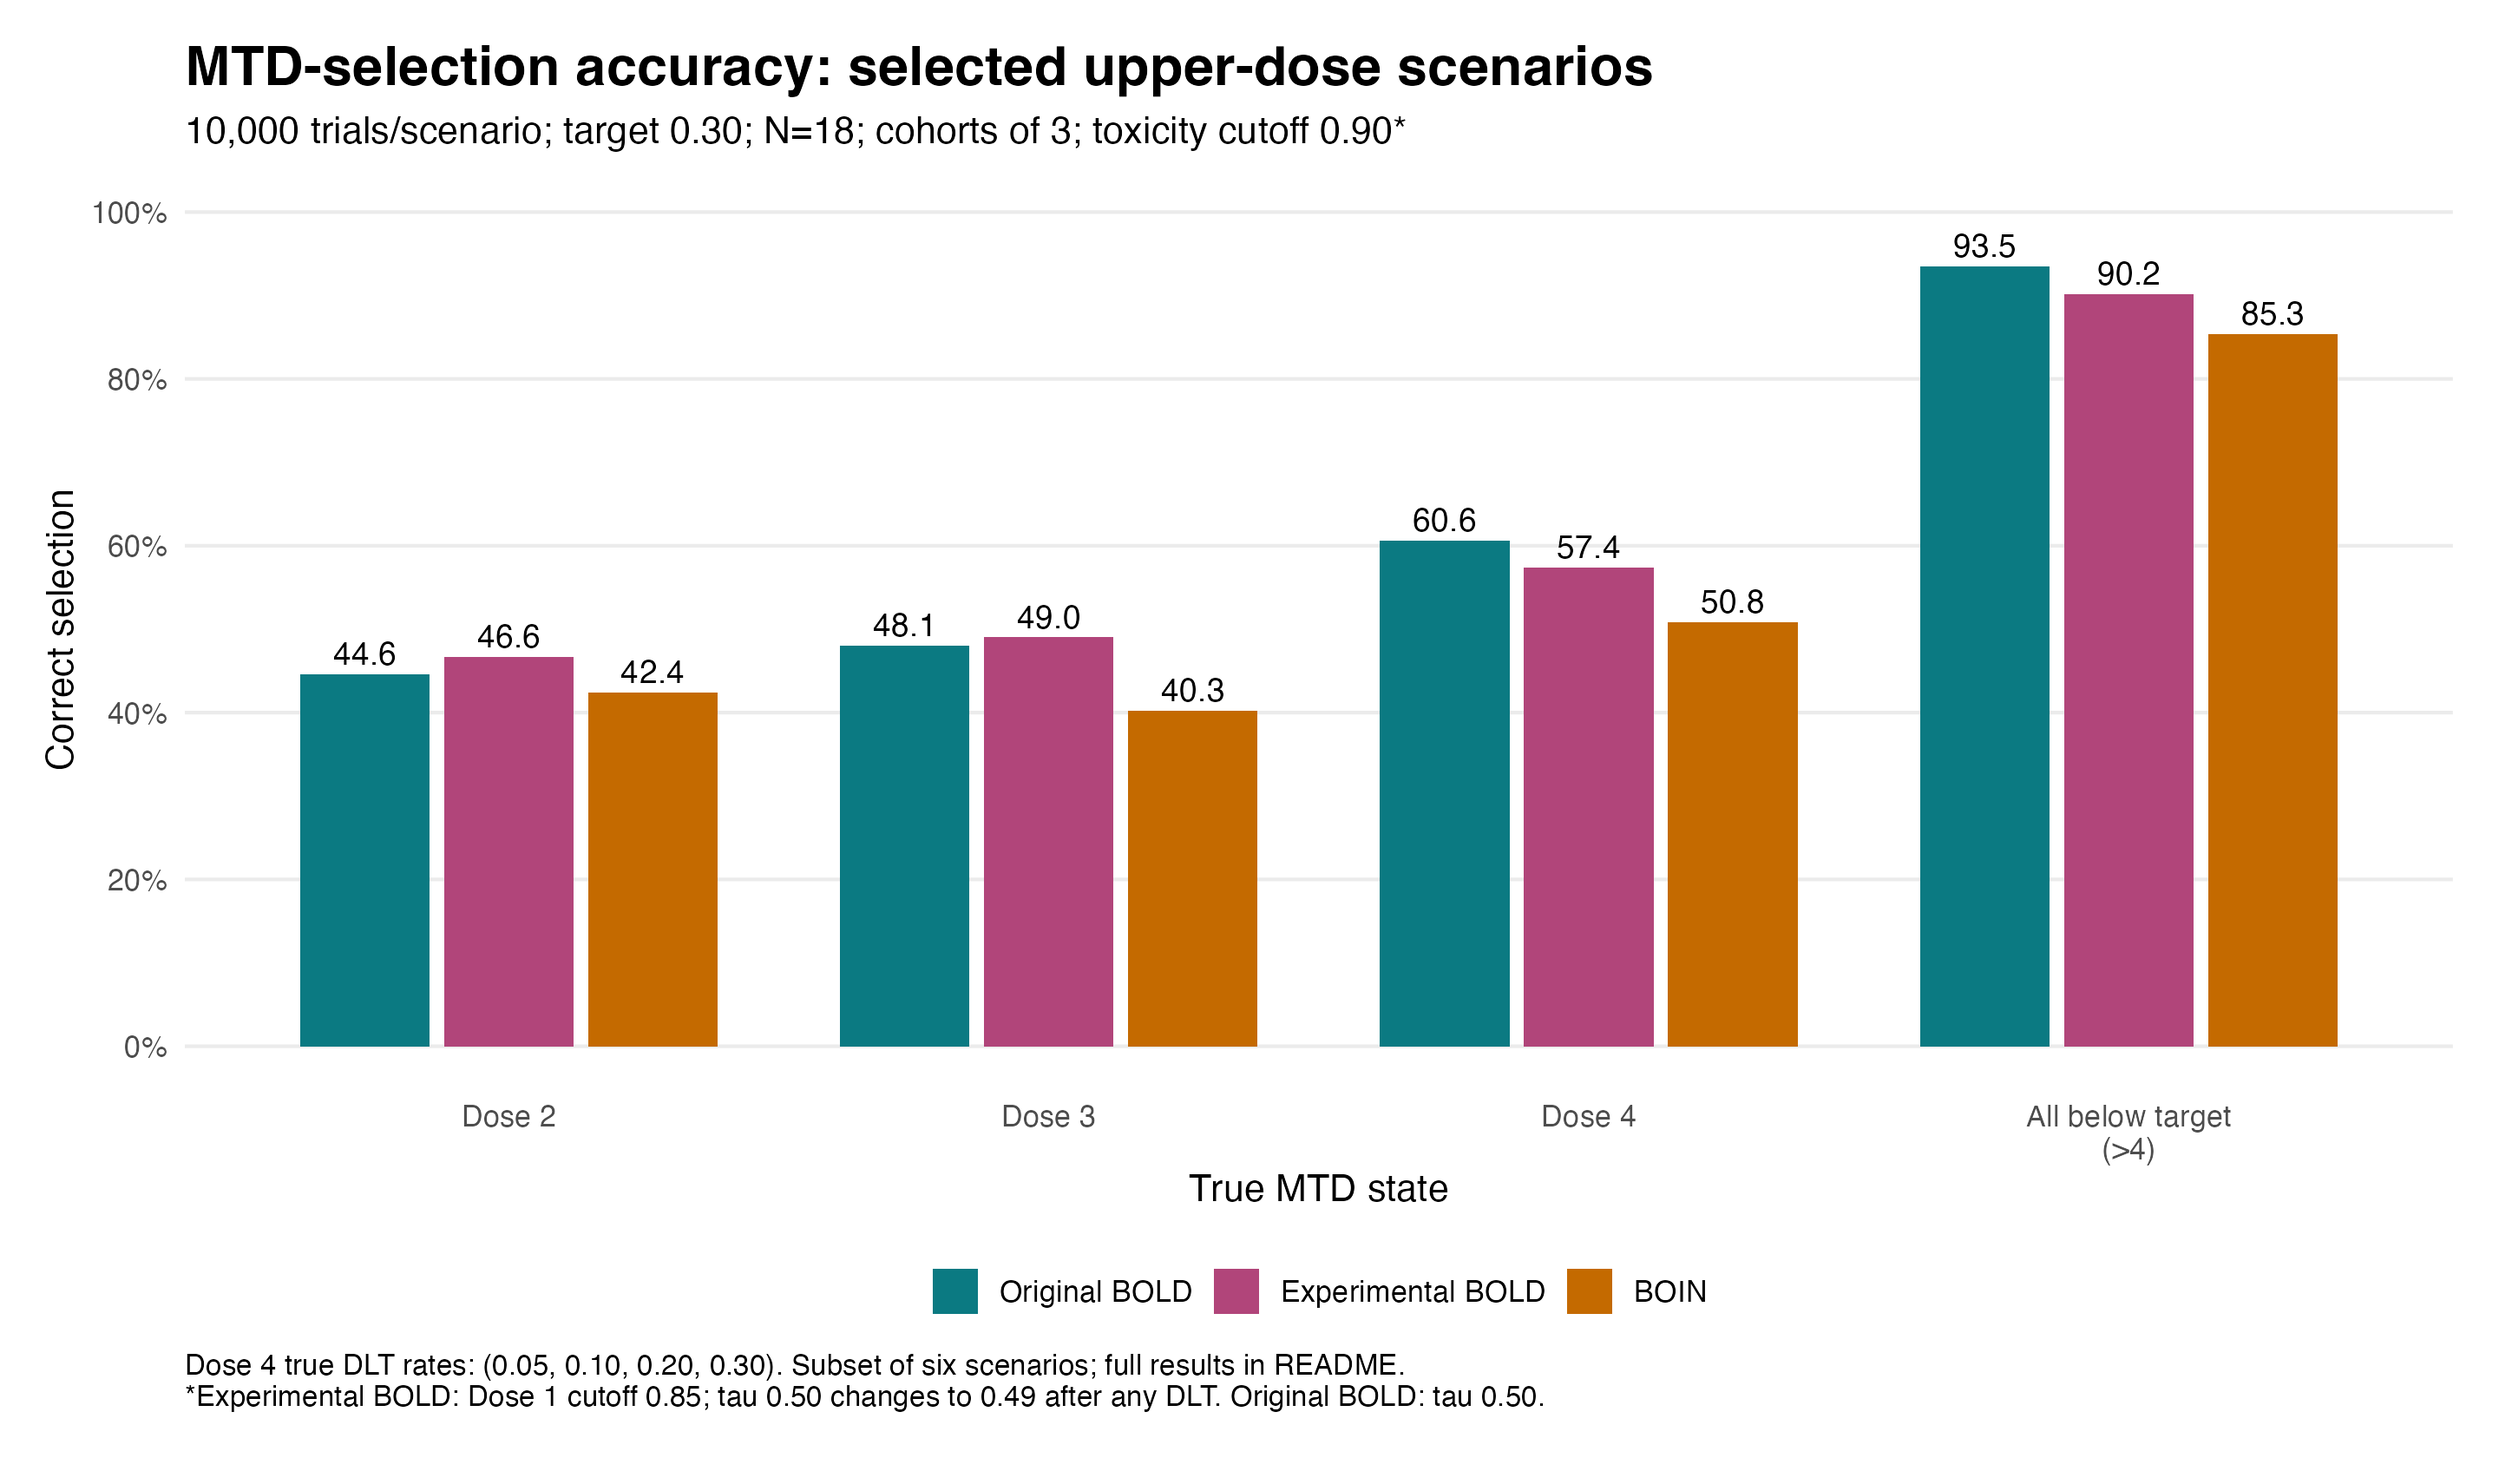
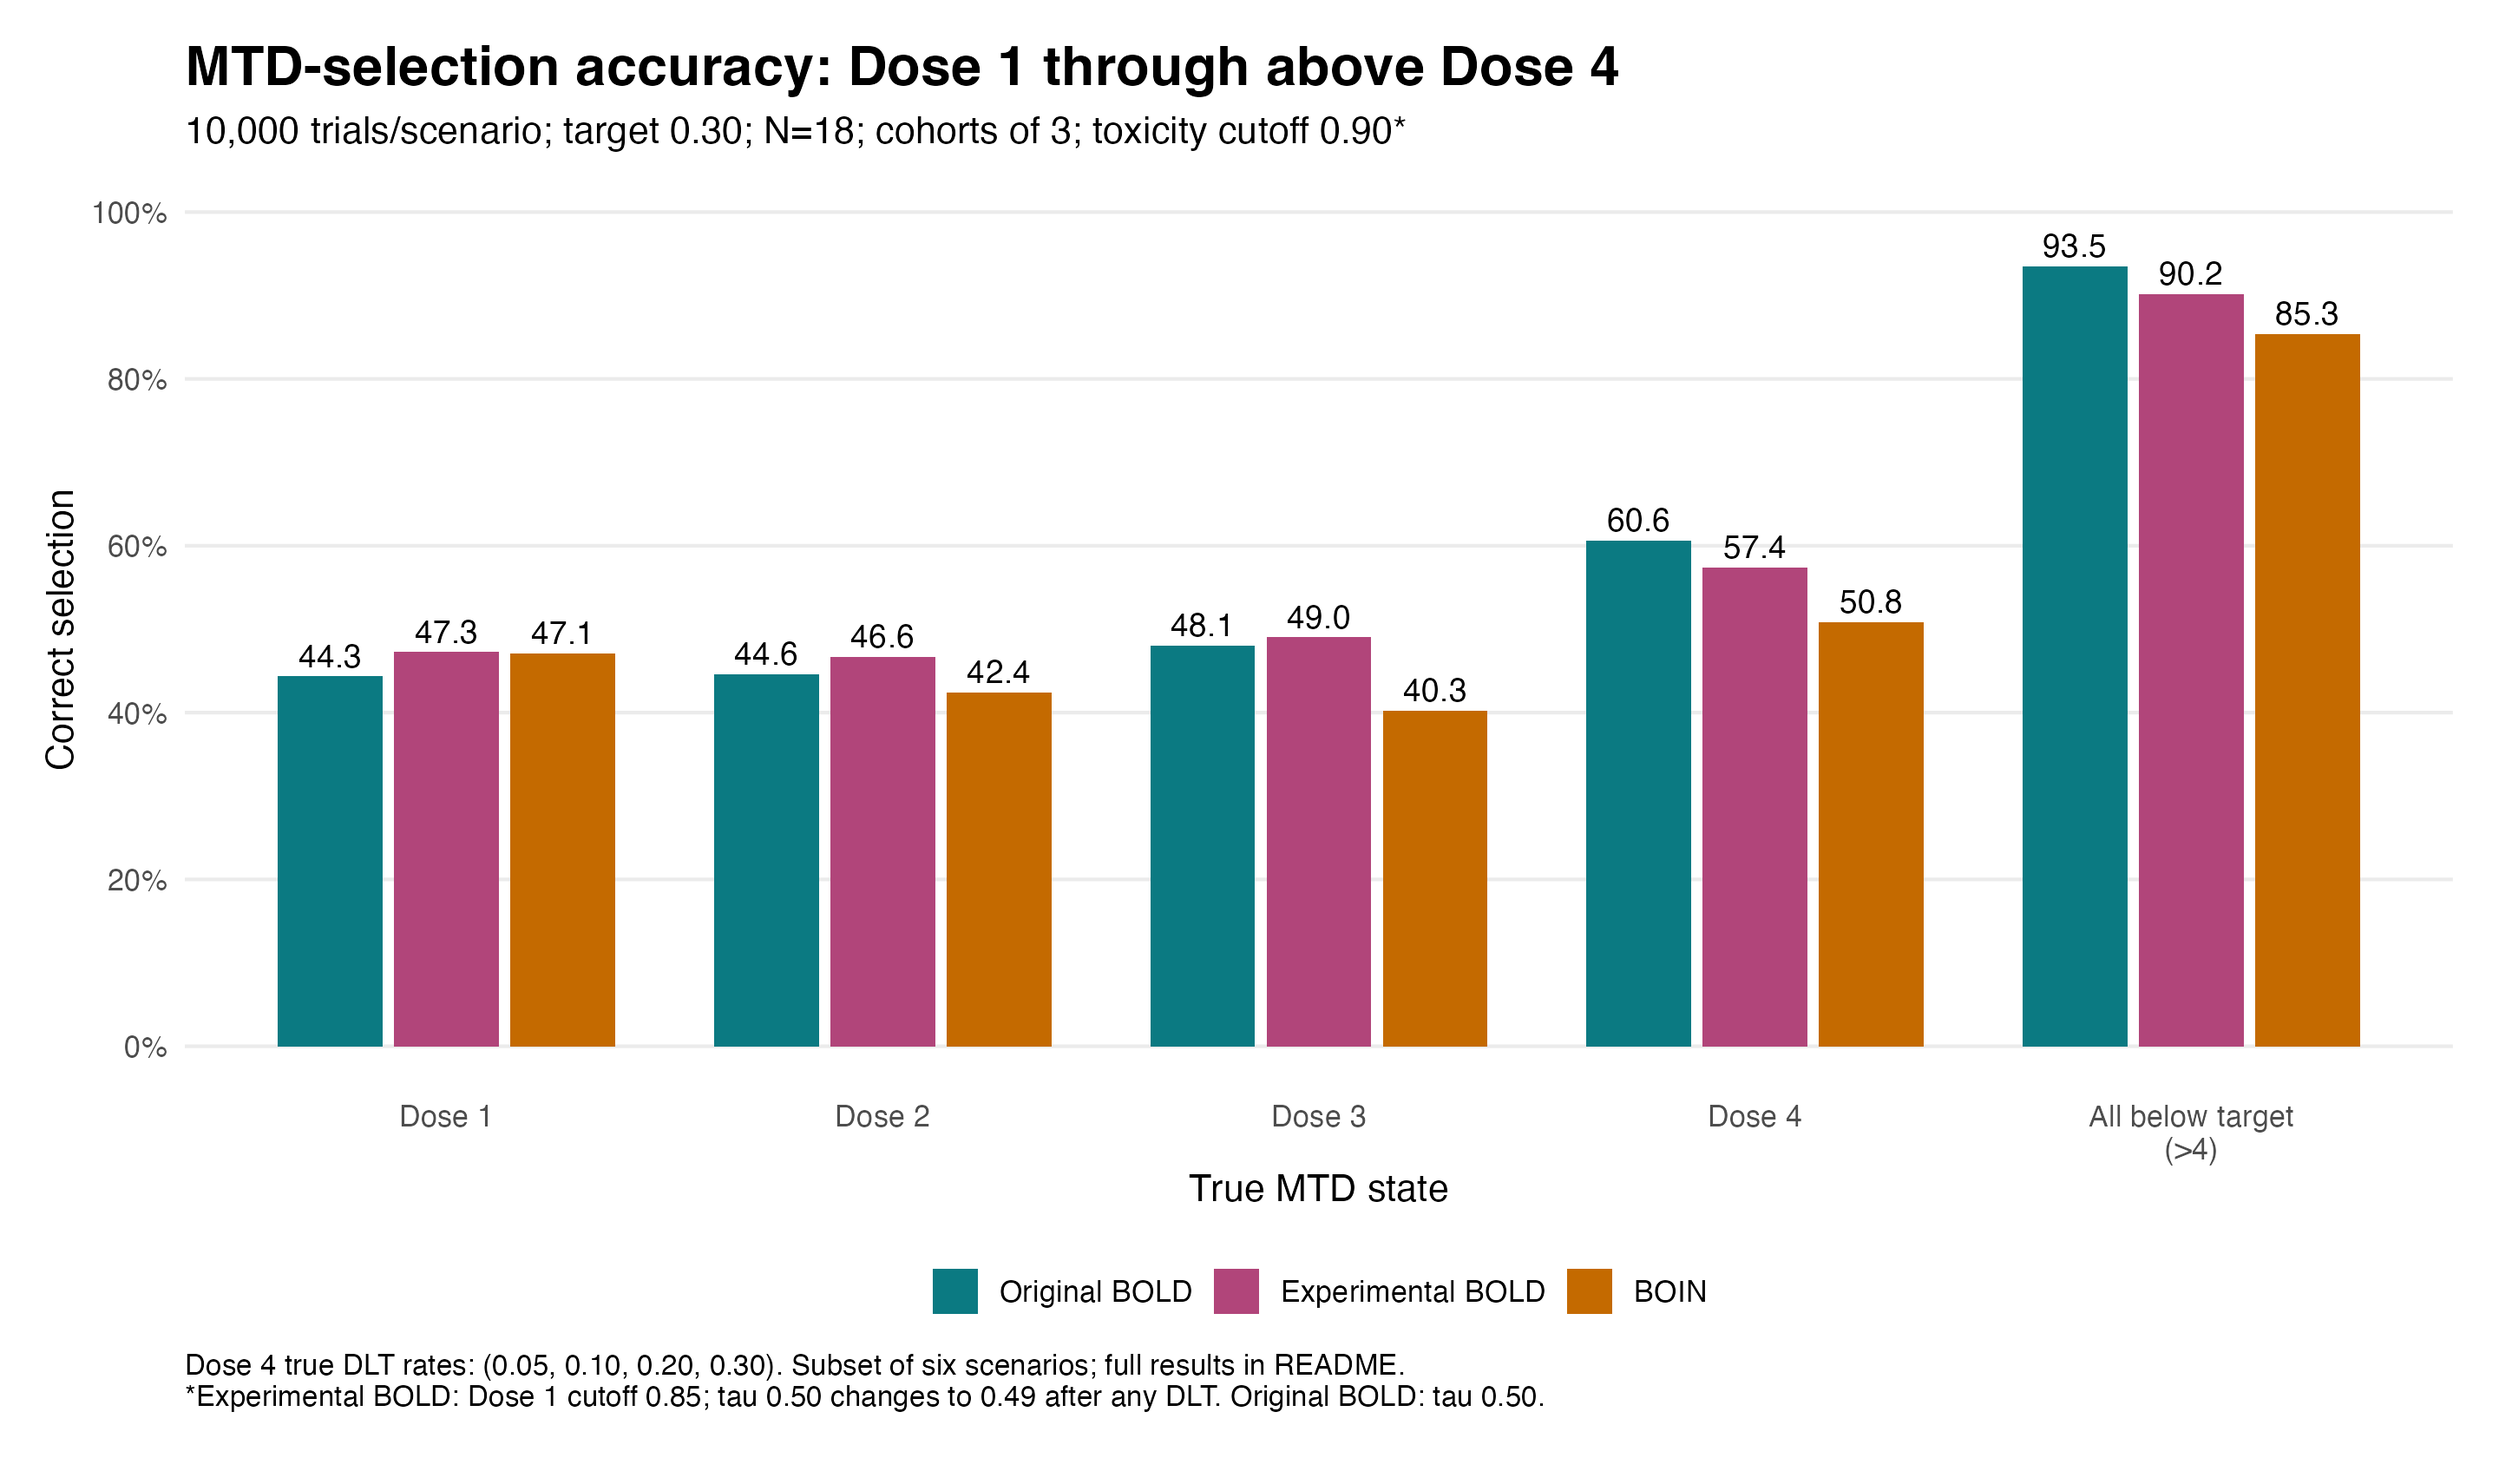
Include Dose 1 in comparison figure and results table

Changed region(s): [[0.125, 0.1548, 0.9688, 0.8048], [0.3438, 0.031, 0.6562, 0.0619], [0.0938, 0.4643, 0.125, 0.7119]]

diff --git a/README.md b/README.md
@@ -54,14 +54,15 @@ Use four doses, start at Dose 1, target 0.30, cohorts of 3, maximum 18 patients,
 | Dose 4 | 0.05, 0.10, 0.20, 0.30 |
 | All below target (>4) | 0.03, 0.05, 0.10, 0.15 |
 
-### Selected results: Dose 2 through above Dose 4
+### Selected results: Dose 1 through above Dose 4
 
-![Selection accuracy for Dose 2 through all doses below target](docs/figures/mtd_selection_accuracy_upper_scenarios.png)
+![Selection accuracy for Dose 1 through all doses below target](docs/figures/mtd_selection_accuracy_upper_scenarios.png)
 
-This is a **selected subset** of a six-scenario, 10,000-trial-per-scenario analysis, not clinical outcomes. Complete results, including lower-dose scenarios, true DLT vectors, and overdose allocation, are in [the results CSV](docs/data/car_t_six_scenarios.csv).
+This is a **selected subset** of a six-scenario, 10,000-trial-per-scenario analysis, not clinical outcomes. Complete results, including the all-doses-too-toxic scenario, true DLT vectors, and overdose allocation, are in [the results CSV](docs/data/car_t_six_scenarios.csv).
 
 | True state | True DLT probabilities | Original BOLD | Experimental BOLD | BOIN |
 |---|---|---:|---:|---:|
+| Dose 1 | 0.30, 0.40, 0.50, 0.60 | 44.33% | 47.26% | 47.06% |
 | Dose 2 | 0.10, 0.30, 0.40, 0.50 | 44.56% | 46.64% | 42.38% |
 | Dose 3 | 0.05, 0.10, 0.30, 0.40 | 48.06% | 49.03% | 40.27% |
 | Dose 4 | 0.05, 0.10, 0.20, 0.30 | 60.64% | 57.37% | 50.83% |
